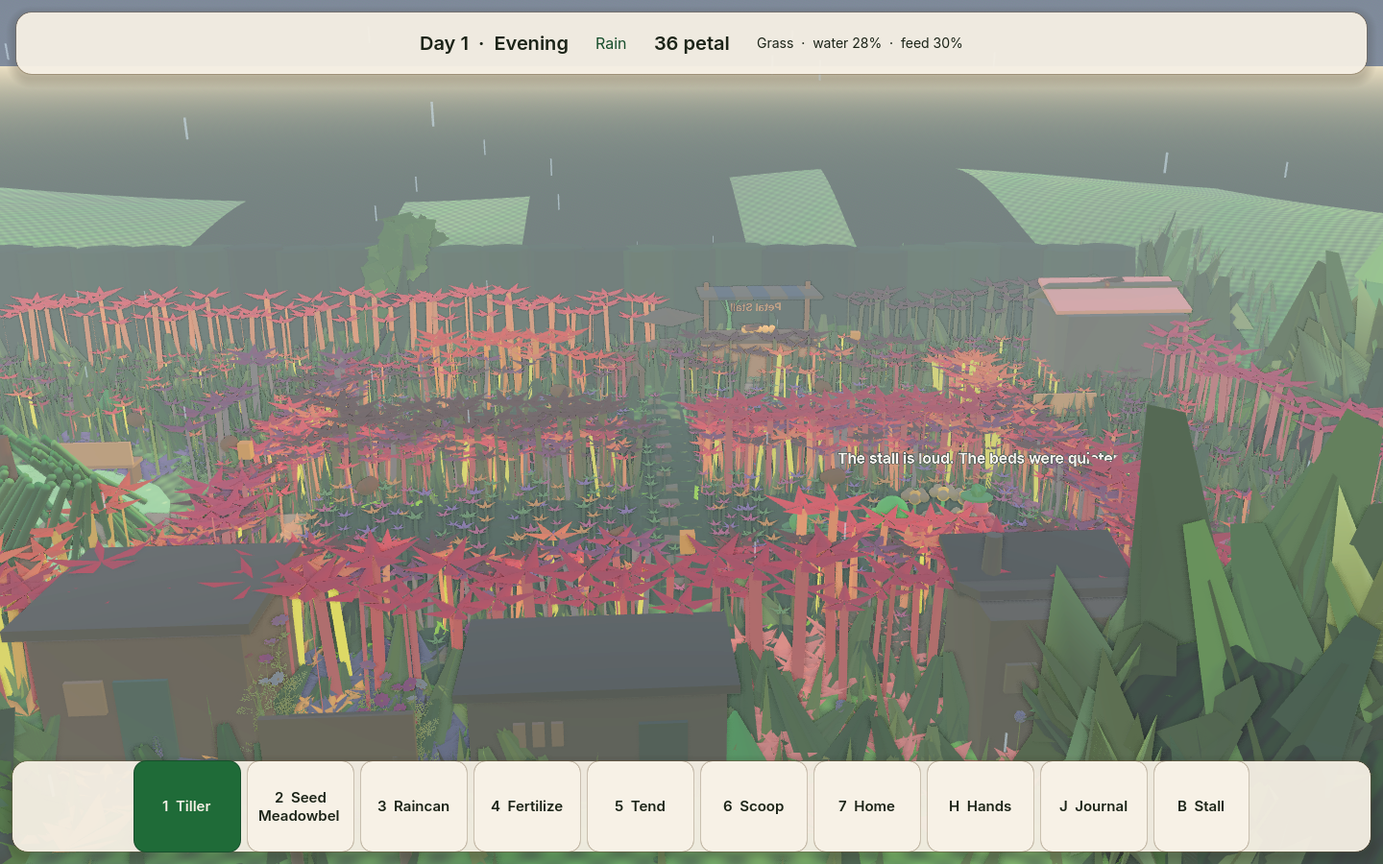
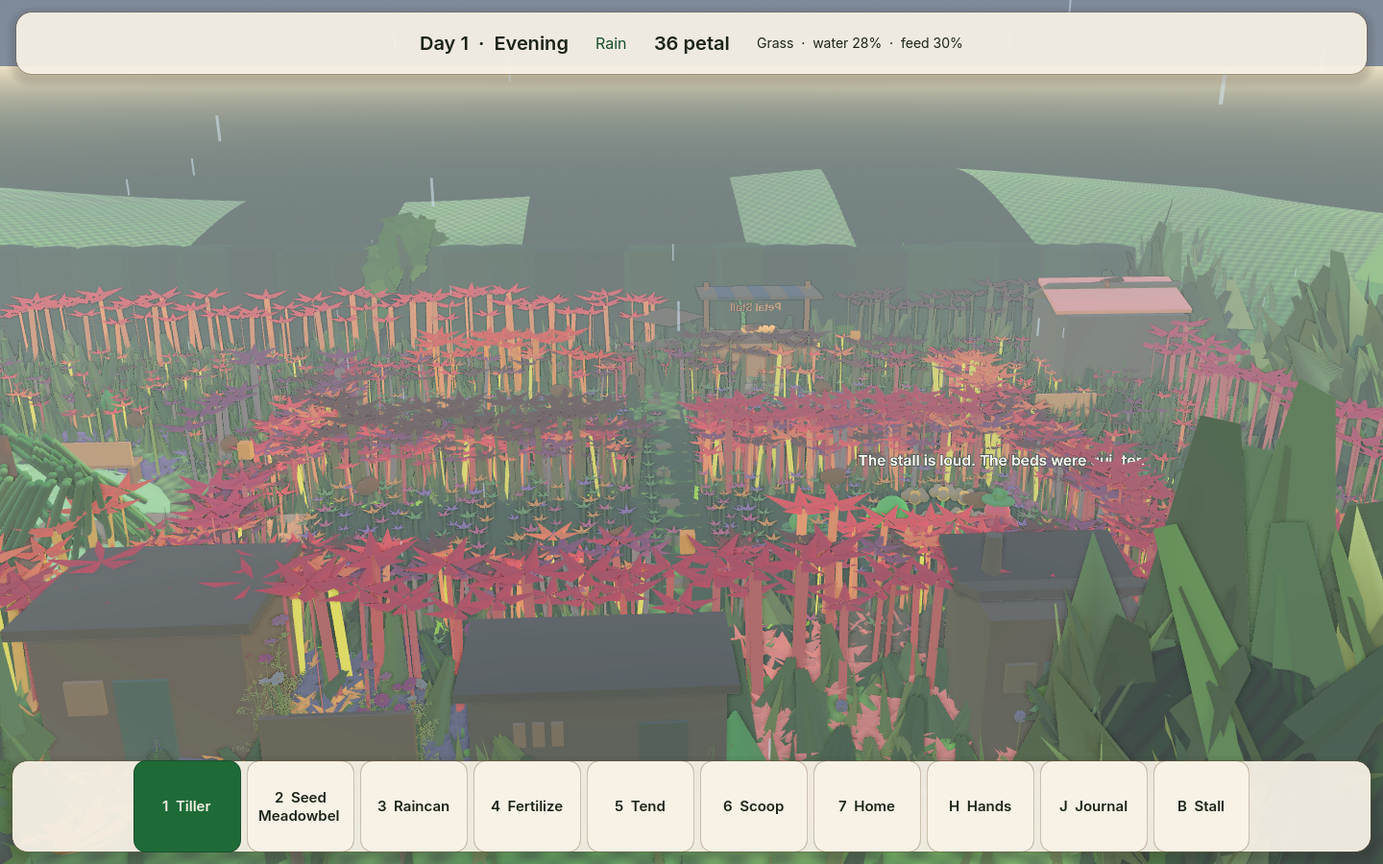
Leave meadow where every other bed stone was.
The stones that remain stay the center, and a flower fills the opening. The walk still cuts the planting. This shot is 1.28% (955), hill (212.2, 223.9, 146.6).

diff --git a/docs/PETALWILD_MASTER_STATE.md b/docs/PETALWILD_MASTER_STATE.md
@@ -38,7 +38,7 @@ This machine has no Vulkan surface. Godot falls back to OpenGL 3 / llvmpipe. Aud
 - The garden does not yet look like the concept plates. See the gap list below.
 - Bellhelp’s five sphere lobes are gone. Five narrow petals run from the tips down to a small pad, with a dark five-petal well, a gold seed, a wider flared whorl, a lower rim, five gap tips past the lobes, a darker band, and a wide short rank inside the tips. The wide skirt of spheres is gone.
 - Lumen’s stalk is one fluted taper, cream at the base and green at the crown. The raised hand holds a seed tray. Each hand is a palm with three fingers and a thumb.
-- Crest leaf cards are 0.4 scale, and the far hedge keeps one 2.5 m tuft in four. A dark shrub row stands just behind that wall, taller at the east end. Light-green in the upper opening band fell from 53% to 24%, and in the lower band from 36% to 13%. The hill did not move. The stall still shows through the middle. The bright blue in that opening was the awning cloth. That stripe is darker now, about (171, 171, 173), and the sky-blue detector on the overview is 0. The shrub row behind the wall was the pale green in the upper band. That check now covers 1.2%, down from 3.5%. The crest leaf cards and the far trees were the side-opening pale pixels. The north backdrop trees are shorter. Paths are dark dirt with darker flagstones. Blooms are rose. StandardMaterial specular is off. The bench and planter are darkened, bright plant-atlas texels are capped, and the lantern glass is amber. The pink disk by the south-west rail, the untilled grass-plot tops, the meadowbell petals, the mauve bed, the resident hands, the light flagstones, the path dirt, and the loose stones are darkened. Overview pixels at pure white are 0. A planted cell keeps the meadow lid, so the crop sits in the bed. The north and south plots meet across the lawn. Flowers spill past the outer edges of the four beds and still line the north-south path. The path center stays open. The north-south track is narrower and its shoulders are meadow. The south and north tracks are narrower too. The wooden frames and the inner hedge around the beds are gone. The narrow tracks are stepping stones. On this shot the upper-band check is 1.16% (870 pixels) and the hill mean is (212.0, 223.6, 146.4). Eight bees drift over the beds. Four birds cross the garden by day and perch at dusk and in the rain.
+- Crest leaf cards are 0.4 scale, and the far hedge keeps one 2.5 m tuft in four. A dark shrub row stands just behind that wall, taller at the east end. Light-green in the upper opening band fell from 53% to 24%, and in the lower band from 36% to 13%. The hill did not move. The stall still shows through the middle. The bright blue in that opening was the awning cloth. That stripe is darker now, about (171, 171, 173), and the sky-blue detector on the overview is 0. The shrub row behind the wall was the pale green in the upper band. That check now covers 1.2%, down from 3.5%. The crest leaf cards and the far trees were the side-opening pale pixels. The north backdrop trees are shorter. Paths are dark dirt with darker flagstones. Blooms are rose. StandardMaterial specular is off. The bench and planter are darkened, bright plant-atlas texels are capped, and the lantern glass is amber. The pink disk by the south-west rail, the untilled grass-plot tops, the meadowbell petals, the mauve bed, the resident hands, the light flagstones, the path dirt, and the loose stones are darkened. Overview pixels at pure white are 0. A planted cell keeps the meadow lid, so the crop sits in the bed. The north and south plots meet across the lawn. Flowers spill past the outer edges of the four beds and still line the north-south path. The path center stays open. The north-south track is narrower and its shoulders are meadow. The south and north tracks are narrower too. The wooden frames and the inner hedge around the beds are gone. The narrow tracks are stepping stones, and every other stone is left out. On the smaller-stone shot that check was 1.16% (870 pixels). On this shot the upper-band check is 1.28% (955 pixels) and the hill mean is (212.2, 223.9, 146.6). Eight bees drift over the beds. Four birds cross the garden by day and perch at dusk and in the rain.
 - City, venues, and the agent civilisation are a single parish record (`data/district.json`, Hedge Hollow, phase A).
 - On-screen jellies stay at district fidelity or nearer. The directory shows each resident's home and job. The parish page lists venues. Petal Stall, the potting shed, the hedge tea house, the research hut, the media foundry, and the town hall board are open. Grove Park is not built, and demand for it is not simulated. Petal Stall demand is the people present plus creature residents.
 - Trust cannot research, draft, or act outside the process.
@@ -64,14 +64,14 @@ Spent: 0. Remaining on the connected account: **367.46** (pro). Catalog check re
 
 Compared `docs/screenshots/wave1_overview.png`, `wave1_jelly.png`, and `wave1_lumen.png` with `docs/reference/petalwild_target_garden_01.png` and `petalwild_target_garden_02.png`.
 
-The north backdrop trees are shorter than the hedge. Crest leaf cards are 0.4 scale, and the far hedge keeps one 2.5 m tuft in four. A dark shrub row stands just behind that wall, taller at the east end. Light-green pixels fell from 53% to 24% in the upper opening band (screen y 265–320) and from 36% to 13% in the lower band (y 290–360). East-lip luminance (y 252–272) fell from 200 to 162. The hill (y 200–245) did not change. Bellhelp’s close-up is on open lawn: five narrow lobes, a dark five-petal well, a gold seed, a wider flared whorl, a lower rim, five gap tips past the lobes, a darker band, and a wide short rank inside the tips. The bench and planter use a dark multiply, bright plant-atlas texels are capped, and the lantern glass is amber. The pink disk by the south-west rail, the untilled grass-plot tops, the meadowbell petals, the mauve bed, the resident hands, the light flagstones, the path dirt, and the loose stones are darkened. Pure white on this overview is 0. The stall awning’s bright blue was cloth, now about (171, 171, 173), and the sky-blue detector is 0. The shrub row behind the wall no longer reads as pale green; that upper-band check is 1.2%. On the previous shot that check was 1.17% and the hill mean was (212.9, 224.4, 147.6). With the hedge tea house in the lower left, that shot was 1.30%. With the research hut in the lower middle, that shot was 1.17% (874 pixels). With the media foundry in the lower middle, that shot was 1.15% (862 pixels). With the town hall board in the south gate, that shot was 1.29% (968 pixels) and the hill mean was (212.0, 223.6, 146.4). On that shot the check was 1.54% (1155 pixels) and the hill mean was (212.0, 223.7, 146.5). Empty untilled beds now carry nine dark leaf discs and eight short flowers, and a tilled or planted bed clears them. On the leaf-cover shot the check was 1.60% (1197 pixels) and the hill mean was (212.1, 223.8, 146.5). Neighboring empty cells now share an overlapping dark lid, so the brown seam inside a plot closes. On the joined-lid shot the check was 1.61% (1208 pixels) and the hill mean was (212.1, 223.8, 146.5). A planted cell now keeps that dark lid, so the crop sits in the meadow instead of an inset square. On the planted-lid shot the check was 1.54% (1149 pixels) and the hill mean was (212.1, 223.7, 146.5). The north and south plots now meet across the lawn, and the north-south path stays open. On the bridge shot the check was 1.57% (1176 pixels) and the hill mean was (212.2, 223.8, 146.6). Flowers now sit on both lips of the north-south path, and the path center stays open. On the path-lip shot the check was 1.61% (1204 pixels) and the hill mean was (212.1, 223.8, 146.5). Flowers now spill past the outer edges of the four beds, and the path-center pixels are unchanged. On the bed-edge shot the check was 1.45% (1083 pixels) and the hill mean was (212.2, 223.9, 146.6). The north-south track is narrower, its shoulders are meadow, and the center stays stone. On the narrow-track shot the check was 1.46% (1091 pixels) and the hill mean was (212.2, 223.9, 146.6). The south and north tracks are narrower too, with flowers on their lips. On the track-lip shot the check was 1.45% (1083 pixels) and the hill mean was (212.2, 223.9, 146.6). The wooden frames and the inner hedge around the four beds are gone. The parish hedge stays. On the open-bed shot the check was 1.26% (940 pixels) and the hill mean was (212.0, 223.6, 146.4). On the stepping-stone shot the check was 1.52% (1136 pixels) and the hill mean was (212.0, 223.7, 146.5). On this shot the check is 1.16% (870 pixels) and the hill mean is (212.0, 223.6, 146.4). The swing is the west edge of the hill under the swaying leaves. A planted meadowbell is three bells on a leaf pad, and every crop sits in a ring of eight leaves. Eight bees drift over the beds. Four birds cross the garden by day and perch at dusk and in the rain. Paths are flagstones on dark dirt. Lumen’s stalk is one fluted taper, and the raised hand holds the seed tray. `PETAL_SMOKE_OK`, `PETAL_RULES_OK`, and `PETAL_CAPTURE_OK` passed on this tree. Shots are the six `wave1_*.png` files.
+The north backdrop trees are shorter than the hedge. Crest leaf cards are 0.4 scale, and the far hedge keeps one 2.5 m tuft in four. A dark shrub row stands just behind that wall, taller at the east end. Light-green pixels fell from 53% to 24% in the upper opening band (screen y 265–320) and from 36% to 13% in the lower band (y 290–360). East-lip luminance (y 252–272) fell from 200 to 162. The hill (y 200–245) did not change. Bellhelp’s close-up is on open lawn: five narrow lobes, a dark five-petal well, a gold seed, a wider flared whorl, a lower rim, five gap tips past the lobes, a darker band, and a wide short rank inside the tips. The bench and planter use a dark multiply, bright plant-atlas texels are capped, and the lantern glass is amber. The pink disk by the south-west rail, the untilled grass-plot tops, the meadowbell petals, the mauve bed, the resident hands, the light flagstones, the path dirt, and the loose stones are darkened. Pure white on this overview is 0. The stall awning’s bright blue was cloth, now about (171, 171, 173), and the sky-blue detector is 0. The shrub row behind the wall no longer reads as pale green; that upper-band check is 1.2%. On the previous shot that check was 1.17% and the hill mean was (212.9, 224.4, 147.6). With the hedge tea house in the lower left, that shot was 1.30%. With the research hut in the lower middle, that shot was 1.17% (874 pixels). With the media foundry in the lower middle, that shot was 1.15% (862 pixels). With the town hall board in the south gate, that shot was 1.29% (968 pixels) and the hill mean was (212.0, 223.6, 146.4). On that shot the check was 1.54% (1155 pixels) and the hill mean was (212.0, 223.7, 146.5). Empty untilled beds now carry nine dark leaf discs and eight short flowers, and a tilled or planted bed clears them. On the leaf-cover shot the check was 1.60% (1197 pixels) and the hill mean was (212.1, 223.8, 146.5). Neighboring empty cells now share an overlapping dark lid, so the brown seam inside a plot closes. On the joined-lid shot the check was 1.61% (1208 pixels) and the hill mean was (212.1, 223.8, 146.5). A planted cell now keeps that dark lid, so the crop sits in the meadow instead of an inset square. On the planted-lid shot the check was 1.54% (1149 pixels) and the hill mean was (212.1, 223.7, 146.5). The north and south plots now meet across the lawn, and the north-south path stays open. On the bridge shot the check was 1.57% (1176 pixels) and the hill mean was (212.2, 223.8, 146.6). Flowers now sit on both lips of the north-south path, and the path center stays open. On the path-lip shot the check was 1.61% (1204 pixels) and the hill mean was (212.1, 223.8, 146.5). Flowers now spill past the outer edges of the four beds, and the path-center pixels are unchanged. On the bed-edge shot the check was 1.45% (1083 pixels) and the hill mean was (212.2, 223.9, 146.6). The north-south track is narrower, its shoulders are meadow, and the center stays stone. On the narrow-track shot the check was 1.46% (1091 pixels) and the hill mean was (212.2, 223.9, 146.6). The south and north tracks are narrower too, with flowers on their lips. On the track-lip shot the check was 1.45% (1083 pixels) and the hill mean was (212.2, 223.9, 146.6). The wooden frames and the inner hedge around the four beds are gone. The parish hedge stays. On the open-bed shot the check was 1.26% (940 pixels) and the hill mean was (212.0, 223.6, 146.4). On the stepping-stone shot the check was 1.52% (1136 pixels) and the hill mean was (212.0, 223.7, 146.5). On the smaller-stone shot the check was 1.16% (870 pixels) and the hill mean was (212.0, 223.6, 146.4). On this shot the check is 1.28% (955 pixels) and the hill mean is (212.2, 223.9, 146.6). The swing is the west edge of the hill under the swaying leaves. A planted meadowbell is three bells on a leaf pad, and every crop sits in a ring of eight leaves. Eight bees drift over the beds. Four birds cross the garden by day and perch at dusk and in the rain. Paths are flagstones on dark dirt. Lumen’s stalk is one fluted taper, and the raised hand holds the seed tray. `PETAL_SMOKE_OK`, `PETAL_RULES_OK`, and `PETAL_CAPTURE_OK` passed on this tree. Shots are the six `wave1_*.png` files.
 
 Three largest gaps still open, against `docs/reference/petalwild_target_garden_01.png` and `petalwild_target_garden_02.png`:
 
-1. **Hedge skyline.** The crest cards and the far trees are darker. On this shot 1.16% of the upper band is still light-green (870 pixels), mostly the west edge of the hill. The hill mean is (212.0, 223.6, 146.4). The stall still shows through the middle. The south rooms, the gate board, and the bed blooms sit lower and do not cover that edge. PETAL-05.
+1. **Hedge skyline.** The crest cards and the far trees are darker. On this shot 1.28% of the upper band is still light-green (955 pixels), mostly the west edge of the hill. The hill mean is (212.2, 223.9, 146.6). The stall still shows through the middle. The south rooms, the gate board, and the bed blooms sit lower and do not cover that edge. PETAL-05.
 2. **Bellhelp.** Ten tips, a short rank inside them, a darker band, and a wider skirt. The dark throat is still the center. PETAL-03.
-3. **Plot grid.** The wooden frames and the inner hedge around the four beds are gone. The parish hedge stays. Flowers spill past the outer edges of the beds and still line the north-south path. The north-south, south, and north tracks are smaller darker stepping stones. Meadow and a flower sit between the stones, and each stone stays the center. That line of stones still cuts the planting. The plates are one continuous planting. Overview pixels at pure white are 0, and the brightest leftover is still the warm horizon at screen x 1034, y 178, (255, 255, 201). That is sky. PETAL-06.
+3. **Plot grid.** The wooden frames and the inner hedge around the four beds are gone. The parish hedge stays. Flowers spill past the outer edges of the beds and still line the north-south path. The north-south, south, and north tracks are smaller darker stepping stones, and every other stone is left out. Meadow and a flower fill that opening, and each remaining stone stays the center. The walk still cuts the planting. The plates are one continuous planting. Overview pixels at pure white are 0, and the brightest leftover is still the warm horizon at screen x 1034, y 178, (255, 255, 201). That is sky. PETAL-06.
 
 ## Next integration
 
-Keep this build playable. The next pass stays inside `scenes/main.tscn` (Hedge Hollow). The creature chain through Gushorn can happen in this garden, and two resident Bellhelps raise the species to breeding. The later resident walks to the first, the journal says a pair is in the parish, a reload keeps that pair, and off-screen they share the first resident's home kit. A resident who is petted until they trust your hands is bonded. By day they walk to the gardener, the journal keeps that trust beside the pair, and a reload keeps the bond. By day a resident bites a ripe plant they came for, that plant has to grow back, and a reload keeps the bite. A dry crop droops and loses height until the bed is watered. A placed home kit is a moss shelter. Off-screen, a resident still bites a ripe plant they came for, and a reload keeps that bite. Grove Park is still not built. The hedge tea house stands on the south lawn. The research hut stands west of it, and the media foundry stands between them. The town hall is a board by the south gate. Meadowbells are a clump of three, and every crop sits in a ring of leaves. The wooden frames and the inner hedge around the four beds are gone. The parish hedge stays. Flowers spill past the outer edges of the beds and still line the north-south path. The north-south, south, and north tracks are smaller darker stepping stones. Meadow and a flower sit between the stones, and each stone stays the center. That line of stones still cuts the planting. On this shot 1.16% of the upper band is still light green (870 pixels), mostly the west edge of the hill, and the stall still shows through the middle. The hill mean is (212.0, 223.6, 146.4). The south rooms and the town hall board sit in the foreground. Bees sit on the flowers while it rains. Do not paint that hill edge, do not cut the hill, and do not raise the east shrubs. Do not fill Bellhelp’s dark throat. Do not open a side demo. The Kenney/Cara grove in `scripts/presentation/` is not the running scene.
+Keep this build playable. The next pass stays inside `scenes/main.tscn` (Hedge Hollow). The creature chain through Gushorn can happen in this garden, and two resident Bellhelps raise the species to breeding. The later resident walks to the first, the journal says a pair is in the parish, a reload keeps that pair, and off-screen they share the first resident's home kit. A resident who is petted until they trust your hands is bonded. By day they walk to the gardener, the journal keeps that trust beside the pair, and a reload keeps the bond. By day a resident bites a ripe plant they came for, that plant has to grow back, and a reload keeps the bite. A dry crop droops and loses height until the bed is watered. A placed home kit is a moss shelter. Off-screen, a resident still bites a ripe plant they came for, and a reload keeps that bite. Grove Park is still not built. The hedge tea house stands on the south lawn. The research hut stands west of it, and the media foundry stands between them. The town hall is a board by the south gate. Meadowbells are a clump of three, and every crop sits in a ring of leaves. The wooden frames and the inner hedge around the four beds are gone. The parish hedge stays. Flowers spill past the outer edges of the beds and still line the north-south path. The north-south, south, and north tracks are smaller darker stepping stones, and every other stone is left out. Meadow and a flower fill that opening, and each remaining stone stays the center. The walk still cuts the planting. On this shot 1.28% of the upper band is still light green (955 pixels), mostly the west edge of the hill, and the stall still shows through the middle. The hill mean is (212.2, 223.9, 146.6). The south rooms and the town hall board sit in the foreground. Bees sit on the flowers while it rains. Do not paint that hill edge, do not cut the hill, and do not raise the east shrubs. Do not fill Bellhelp’s dark throat. Do not open a side demo. The Kenney/Cara grove in `scripts/presentation/` is not the running scene.

diff --git a/docs/VISUAL_GAP.md b/docs/VISUAL_GAP.md
@@ -2,12 +2,12 @@
 
 Compared on 2026-09-22. The scene `tools/run.sh` launches is Hedge Hollow. Shots: `docs/screenshots/wave1_overview.png`, `wave1_jelly.png`, `wave1_lumen.png`. Targets: `docs/reference/petalwild_target_garden_01.png` and `petalwild_target_garden_02.png`.
 
-The north backdrop trees are shorter than the hedge. Crest leaf cards are 0.4 of their old size, and the far wall keeps one 2.5 m tuft in four. A row of dark shrubs stands just behind that wall. The east end is taller so its lip meets the hedge line. Light-green pixels in the upper opening band (screen y 265–320, x 40–1400) fell from 53% to 24%, and in the lower band (y 290–360, x 80–1200) from 36% to 13%. On the east lip (y 252–272, x 40–300) mean luminance fell from 200 to 162. The hill (y 200–245) did not change. The stall still sits in front of the middle of the wall. The bright blue band in that opening was the awning cloth, not a hole in the hedge. That stripe is darker now and reads about (171, 171, 173). A sky-blue detector on the overview (blue above 200, ahead of red by 20 and of green by 10) is 0. The shrub row behind the wall was lifting to pale green under the sun. The same light-green check (green ahead of red by 15 and of blue by 20, green above 140) now covers 1.2% of the upper band, down from 3.5% on the previous shot. The crest leaf cards and the far trees were the pale pixels in the side openings. The upper hill (screen y 200–230) stayed at about (213, 224, 148). The ground sky below the horizon is green, so a hole in the hill reads as olive rather than pale sky. Bellhelp’s close-up shows five pointed lobes, five gap tips past them, a wide short rank inside that ring, a darker band, and a wider flared whorl. The dark throat stays. The wide skirt of spheres is gone. The bench and planter use a dark multiply on the prop texture, and bright plant-atlas texels are capped. The three lantern glasses are amber instead of pure white. The pink disk by the south-west rail, the untilled grass-plot tops, the meadowbell petals, the mauve bed, the resident hands, the light flagstones, the path dirt, and the loose stones are darkened so they stay under the sun. Eight bees drift over the beds. Four birds cross the garden by day and perch at dusk and in the rain. A planted meadowbell is three bells on a leaf pad, and every crop sits in a ring of eight leaves. Pure white on this overview is 0. On the previous shot the upper-band light-green check was 1.17% and the hill mean was (212.9, 224.4, 147.6). The hedge tea house stands in the lower left of the home shot. On that shot the same check was 1.30% (969 pixels) and the hill mean was (212.0, 223.6, 146.4). The research hut stands in the lower middle of that shot, where the check was 1.17% (874 pixels) and the hill mean was (212.0, 223.6, 146.4). The media foundry stands in the lower middle of that shot, where the check was 1.15% (862 pixels) and the hill mean was (212.0, 223.6, 146.4). The town hall board now stands in the south gate. On the town-hall shot the check was 1.29% (968 pixels) and the hill mean was (212.0, 223.6, 146.4). On the six-bloom shot the check was 1.54% (1155 pixels) and the hill mean was (212.0, 223.7, 146.5). Empty untilled beds now carry nine dark leaf discs and eight short flowers, and a tilled or planted bed clears them. On the leaf-cover shot the check was 1.60% (1197 pixels) and the hill mean was (212.1, 223.8, 146.5). Neighboring empty cells now share an overlapping dark lid, so the brown seam inside a plot closes. On the joined-lid shot the check was 1.61% (1208 pixels) and the hill mean was (212.1, 223.8, 146.5). A planted cell now keeps that dark lid, so the crop sits in the meadow instead of an inset square. On the planted-lid shot the check was 1.54% (1149 pixels) and the hill mean was (212.1, 223.7, 146.5). The north and south plots now meet across the lawn, and the north-south path stays open. On the bridge shot the check was 1.57% (1176 pixels) and the hill mean was (212.2, 223.8, 146.6). Flowers now sit on both lips of the north-south path, and the path center stays open. On the path-lip shot the check was 1.61% (1204 pixels) and the hill mean was (212.1, 223.8, 146.5). Flowers now spill past the outer edges of the four beds, and the path-center pixels are unchanged. On the bed-edge shot the check was 1.45% (1083 pixels) and the hill mean was (212.2, 223.9, 146.6). The north-south track is narrower, its shoulders are meadow, and the center stays stone. On the narrow-track shot the check was 1.46% (1091 pixels) and the hill mean was (212.2, 223.9, 146.6). The south and north tracks are narrower too, with flowers on their lips. On the track-lip shot the check was 1.45% (1083 pixels) and the hill mean was (212.2, 223.9, 146.6). The wooden frames and the inner hedge around the four beds are gone. The parish hedge stays. On the open-bed shot the check was 1.26% (940 pixels) and the hill mean was (212.0, 223.6, 146.4). On the stepping-stone shot the check was 1.52% (1136 pixels) and the hill mean was (212.0, 223.7, 146.5). On this shot the check is 1.16% (870 pixels) and the hill mean is (212.0, 223.6, 146.4). The swing is the west edge of the hill under the swaying leaves.
+The north backdrop trees are shorter than the hedge. Crest leaf cards are 0.4 of their old size, and the far wall keeps one 2.5 m tuft in four. A row of dark shrubs stands just behind that wall. The east end is taller so its lip meets the hedge line. Light-green pixels in the upper opening band (screen y 265–320, x 40–1400) fell from 53% to 24%, and in the lower band (y 290–360, x 80–1200) from 36% to 13%. On the east lip (y 252–272, x 40–300) mean luminance fell from 200 to 162. The hill (y 200–245) did not change. The stall still sits in front of the middle of the wall. The bright blue band in that opening was the awning cloth, not a hole in the hedge. That stripe is darker now and reads about (171, 171, 173). A sky-blue detector on the overview (blue above 200, ahead of red by 20 and of green by 10) is 0. The shrub row behind the wall was lifting to pale green under the sun. The same light-green check (green ahead of red by 15 and of blue by 20, green above 140) now covers 1.2% of the upper band, down from 3.5% on the previous shot. The crest leaf cards and the far trees were the pale pixels in the side openings. The upper hill (screen y 200–230) stayed at about (213, 224, 148). The ground sky below the horizon is green, so a hole in the hill reads as olive rather than pale sky. Bellhelp’s close-up shows five pointed lobes, five gap tips past them, a wide short rank inside that ring, a darker band, and a wider flared whorl. The dark throat stays. The wide skirt of spheres is gone. The bench and planter use a dark multiply on the prop texture, and bright plant-atlas texels are capped. The three lantern glasses are amber instead of pure white. The pink disk by the south-west rail, the untilled grass-plot tops, the meadowbell petals, the mauve bed, the resident hands, the light flagstones, the path dirt, and the loose stones are darkened so they stay under the sun. Eight bees drift over the beds. Four birds cross the garden by day and perch at dusk and in the rain. A planted meadowbell is three bells on a leaf pad, and every crop sits in a ring of eight leaves. Pure white on this overview is 0. On the previous shot the upper-band light-green check was 1.17% and the hill mean was (212.9, 224.4, 147.6). The hedge tea house stands in the lower left of the home shot. On that shot the same check was 1.30% (969 pixels) and the hill mean was (212.0, 223.6, 146.4). The research hut stands in the lower middle of that shot, where the check was 1.17% (874 pixels) and the hill mean was (212.0, 223.6, 146.4). The media foundry stands in the lower middle of that shot, where the check was 1.15% (862 pixels) and the hill mean was (212.0, 223.6, 146.4). The town hall board now stands in the south gate. On the town-hall shot the check was 1.29% (968 pixels) and the hill mean was (212.0, 223.6, 146.4). On the six-bloom shot the check was 1.54% (1155 pixels) and the hill mean was (212.0, 223.7, 146.5). Empty untilled beds now carry nine dark leaf discs and eight short flowers, and a tilled or planted bed clears them. On the leaf-cover shot the check was 1.60% (1197 pixels) and the hill mean was (212.1, 223.8, 146.5). Neighboring empty cells now share an overlapping dark lid, so the brown seam inside a plot closes. On the joined-lid shot the check was 1.61% (1208 pixels) and the hill mean was (212.1, 223.8, 146.5). A planted cell now keeps that dark lid, so the crop sits in the meadow instead of an inset square. On the planted-lid shot the check was 1.54% (1149 pixels) and the hill mean was (212.1, 223.7, 146.5). The north and south plots now meet across the lawn, and the north-south path stays open. On the bridge shot the check was 1.57% (1176 pixels) and the hill mean was (212.2, 223.8, 146.6). Flowers now sit on both lips of the north-south path, and the path center stays open. On the path-lip shot the check was 1.61% (1204 pixels) and the hill mean was (212.1, 223.8, 146.5). Flowers now spill past the outer edges of the four beds, and the path-center pixels are unchanged. On the bed-edge shot the check was 1.45% (1083 pixels) and the hill mean was (212.2, 223.9, 146.6). The north-south track is narrower, its shoulders are meadow, and the center stays stone. On the narrow-track shot the check was 1.46% (1091 pixels) and the hill mean was (212.2, 223.9, 146.6). The south and north tracks are narrower too, with flowers on their lips. On the track-lip shot the check was 1.45% (1083 pixels) and the hill mean was (212.2, 223.9, 146.6). The wooden frames and the inner hedge around the four beds are gone. The parish hedge stays. On the open-bed shot the check was 1.26% (940 pixels) and the hill mean was (212.0, 223.6, 146.4). On the stepping-stone shot the check was 1.52% (1136 pixels) and the hill mean was (212.0, 223.7, 146.5). On the smaller-stone shot the check was 1.16% (870 pixels) and the hill mean was (212.0, 223.6, 146.4). On this shot the check is 1.28% (955 pixels) and the hill mean is (212.2, 223.9, 146.6). The swing is the west edge of the hill under the swaying leaves.
 
 ## Three largest gaps
 
-1. **Hedge skyline.** The crest cards and the far trees are darker. On this shot 1.16% of the upper band is still light-green (870 pixels), mostly the west edge of the hill. The hill mean is (212.0, 223.6, 146.4). The stall still shows through the middle. The south rooms, the gate board, and the bed blooms sit lower and do not cover that edge. PETAL-05.
+1. **Hedge skyline.** The crest cards and the far trees are darker. On this shot 1.28% of the upper band is still light-green (955 pixels), mostly the west edge of the hill. The hill mean is (212.2, 223.9, 146.6). The stall still shows through the middle. The south rooms, the gate board, and the bed blooms sit lower and do not cover that edge. PETAL-05.
 
 2. **Bellhelp.** Ten tips, a short rank inside them, a darker band, and a wider skirt. The dark throat is still the center. PETAL-03.
 
-3. **Plot grid.** The wooden frames and the inner hedge around the four beds are gone. The parish hedge stays. Flowers spill past the outer edges of the beds and still line the north-south path. The north-south, south, and north tracks are smaller darker stepping stones. Meadow and a flower sit between the stones, and each stone stays the center. That line of stones still cuts the planting. The plates are one continuous planting. Overview pixels at pure white are 0, and the brightest leftover is still the warm horizon at screen x 1034, y 178, (255, 255, 201). That is sky. PETAL-06.
+3. **Plot grid.** The wooden frames and the inner hedge around the four beds are gone. The parish hedge stays. Flowers spill past the outer edges of the beds and still line the north-south path. The north-south, south, and north tracks are smaller darker stepping stones, and every other stone is left out. Meadow and a flower fill that opening, and each remaining stone stays the center. The walk still cuts the planting. The plates are one continuous planting. Overview pixels at pure white are 0, and the brightest leftover is still the warm horizon at screen x 1034, y 178, (255, 255, 201). That is sky. PETAL-06.
